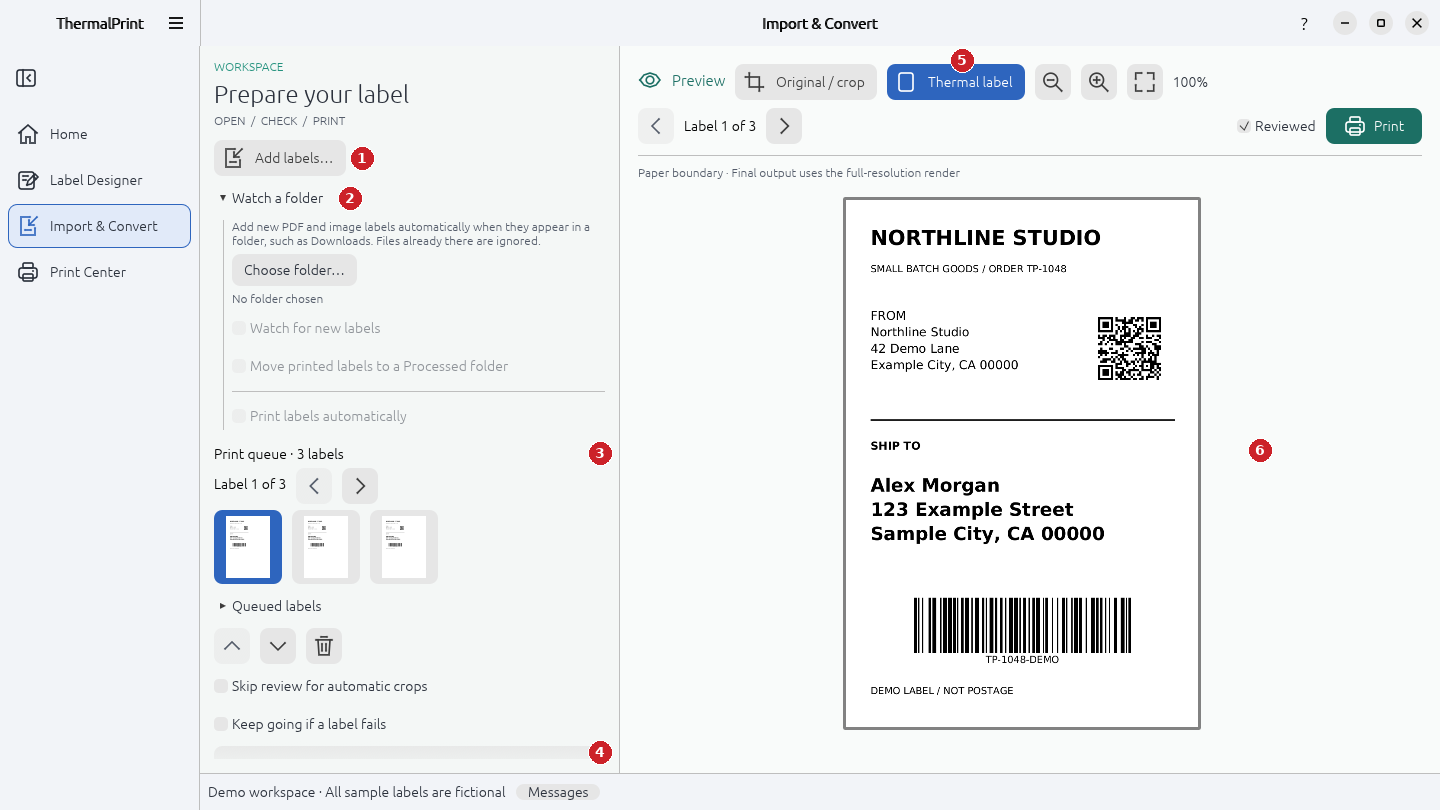
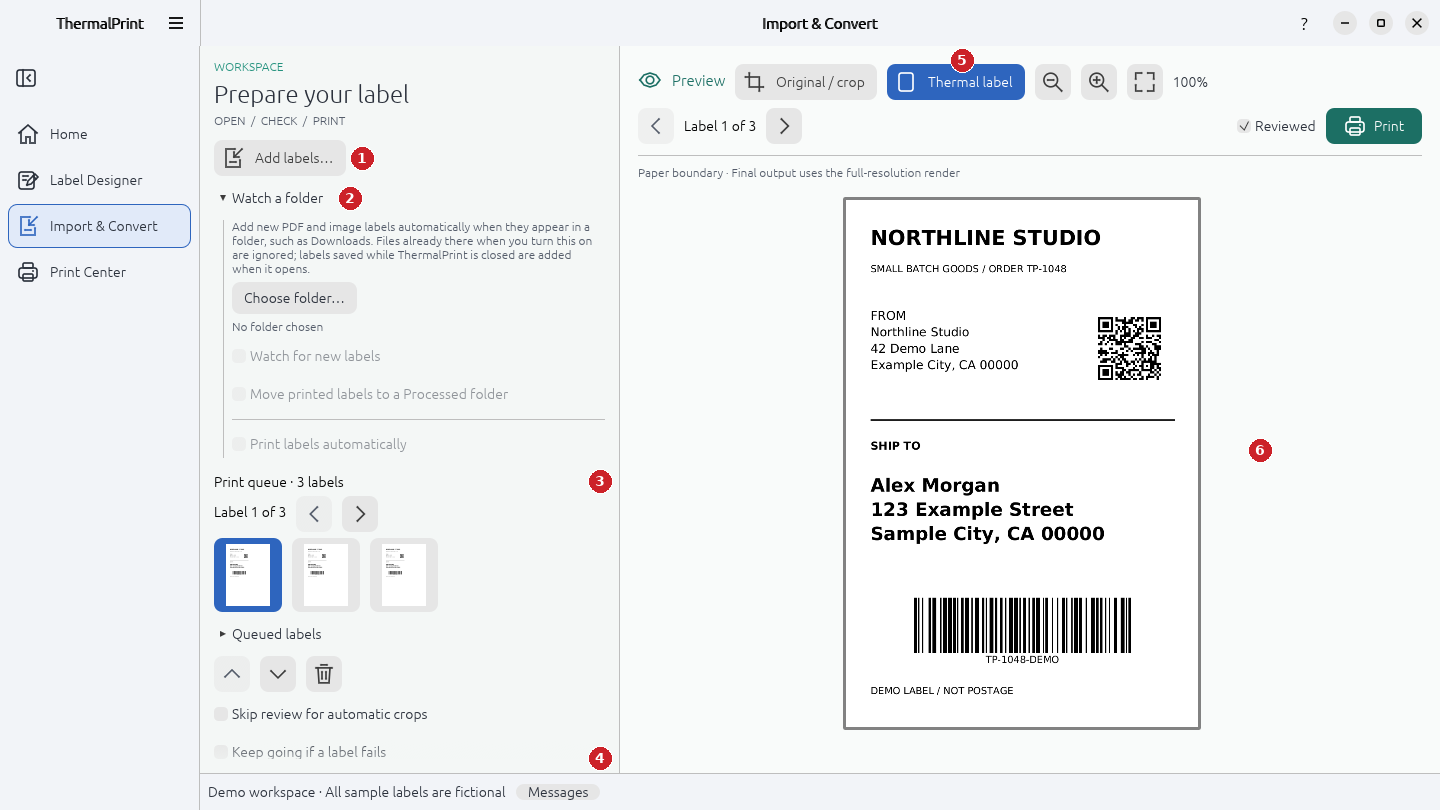
Prepare 0.12.0: fresh watch folder screenshots, release notes and version
The Import & Convert screenshots in the README and manual are recaptured
with the new watch folder hint, and the callouts redrawn.

diff --git a/docs/manual/pages/03-import.html b/docs/manual/pages/03-import.html
@@ -6,7 +6,7 @@ summary: Open PDF and image labels, crop away instructions, check the result, an
 <p><strong>Import &amp; Convert</strong> turns a downloaded label into something your thermal printer can print at the right size. The label file you open is never changed; ThermalPrint works on a copy in memory.</p>
 <p><strong>Where labels come from.</strong> Most people import the PDF that a marketplace or carrier gives them after a sale: for example a prepaid label from <strong>Vinted</strong>, <strong>eBay</strong>, <strong>Etsy</strong>, <strong>Poshmark</strong>, <strong>Depop</strong>, or <strong>Mercari</strong>, a label bought from <strong>USPS</strong>, <strong>UPS</strong>, <strong>FedEx</strong>, or <strong>DHL</strong>, or one from a shipping service such as <strong>Pirate Ship</strong>, <strong>Shopify Shipping</strong>, or <strong>Amazon</strong>. These files are often a full A4 or Letter page with the label in one corner, followed by instructions, a receipt, or a packing slip. ThermalPrint finds the label and crops the rest away. The examples in this manual use these names only to describe where labels come from; ThermalPrint is not connected to, or endorsed by, any of these companies, and it does not buy postage.</p>
 
-{{figure:import-annotated|Import and Convert with numbered callouts on the Add labels button, watch folder, print queue, extract step, preview tabs, and preview|The Import &amp; Convert screen. (1) Add labels, (2) Watch a folder, (3) print queue, (4) the three steps, (5) preview tabs, (6) preview.}}
+{{figure:import-annotated|Import and Convert with numbered callouts on the Add labels button, watch folder, print queue, extract step, preview tabs, and preview|The Import &amp; Convert screen. (1) Add labels, (2) Watch a folder, (3) print queue, (4) the three steps, further down the panel, (5) preview tabs, (6) preview.}}
 
 <h2>Adding labels</h2>
 <p>You can add labels three ways:</p>

diff --git a/docs/manual/pages/15-whats-new.html b/docs/manual/pages/15-whats-new.html
@@ -1,9 +1,14 @@
 <!--
 title: What's new
 group: Reference
-summary: The tools added in versions 0.6.0 to 0.11.1, how each one works, and where to read more.
+summary: The tools added in versions 0.6.0 to 0.12.0, how each one works, and where to read more.
 -->
 <p>This page lists what changed recently and links to the full explanation of each tool. Your version is shown in <strong>☰ → About ThermalPrint</strong>.</p>
+
+<h2 id="version-0-12-0">Version 0.12.0</h2>
+<ul>
+  <li><strong>Labels saved while ThermalPrint was closed.</strong> The watch folder used to ignore everything already in it when the app opened, so a label downloaded while ThermalPrint was closed was never picked up. Now ThermalPrint remembers when it last checked the folder, and when it opens it adds the labels saved since then, with a message saying how many. With <strong>Print labels automatically</strong> on, they print like any new label, each after the Cancel countdown. Files that were already there when you turned watching on are still ignored. See <a href="automation.html#watching-a-folder">Watching a folder</a>.</li>
+</ul>
 
 <h2 id="version-0-11-1">Version 0.11.1</h2>
 <ul>

diff --git a/docs/SNAP.md b/docs/SNAP.md
@@ -16,7 +16,7 @@ From a checkout of this repository, run:
 
 ```sh
 sh scripts/build-snap.sh
-python3 scripts/verify-snap.py target/snap/thermalprint_0.11.1_amd64.snap
+python3 scripts/verify-snap.py target/snap/thermalprint_0.12.0_amd64.snap
 ```
 
 Use the version from `Cargo.toml` in the filename. The build adopts that version
@@ -39,7 +39,7 @@ Python packaging checks require PyYAML (`python3-yaml` on Ubuntu).
 ## Install a local build
 
 ```sh
-sudo snap install --dangerous target/snap/thermalprint_0.11.1_amd64.snap
+sudo snap install --dangerous target/snap/thermalprint_0.12.0_amd64.snap
 snap connections thermalprint
 snap run thermalprint
 ```
@@ -158,8 +158,8 @@ Tagged releases publish automatically. One-time setup:
    optionally add a required reviewer there if you want an approval gate.
 
 To release: bump `version` in `Cargo.toml` (and `Cargo.lock`), merge to `main`,
-then push a tag that exactly matches it, for example `git tag v0.11.1 && git push
-origin v0.11.1`. The workflow checks the tag, runs the packaging tests, builds and
+then push a tag that exactly matches it, for example `git tag v0.12.0 && git push
+origin v0.12.0`. The workflow checks the tag, runs the packaging tests, builds and
 inspects the Snap, then releases it to **stable**. The same `v*` tag also
 triggers the APT release ([release-apt.yml](../.github/workflows/release-apt.yml))
 and the Fedora RPM release ([release-rpm.yml](../.github/workflows/release-rpm.yml)),

diff --git a/docs/RELEASING.md b/docs/RELEASING.md
@@ -9,7 +9,7 @@ The package name and executable are both `thermalprint`. The APT repository live
 To install a downloaded `.deb` directly, use APT so package dependencies are installed:
 
 ```sh
-sudo apt install ./thermalprint_0.11.1-1_amd64.deb
+sudo apt install ./thermalprint_0.12.0-1_amd64.deb
 ```
 
 Replace the filename with the version you downloaded. The application appears as **ThermalPrint** in the desktop launcher, using the bundled color icon. You can also run `thermalprint` from a terminal.
